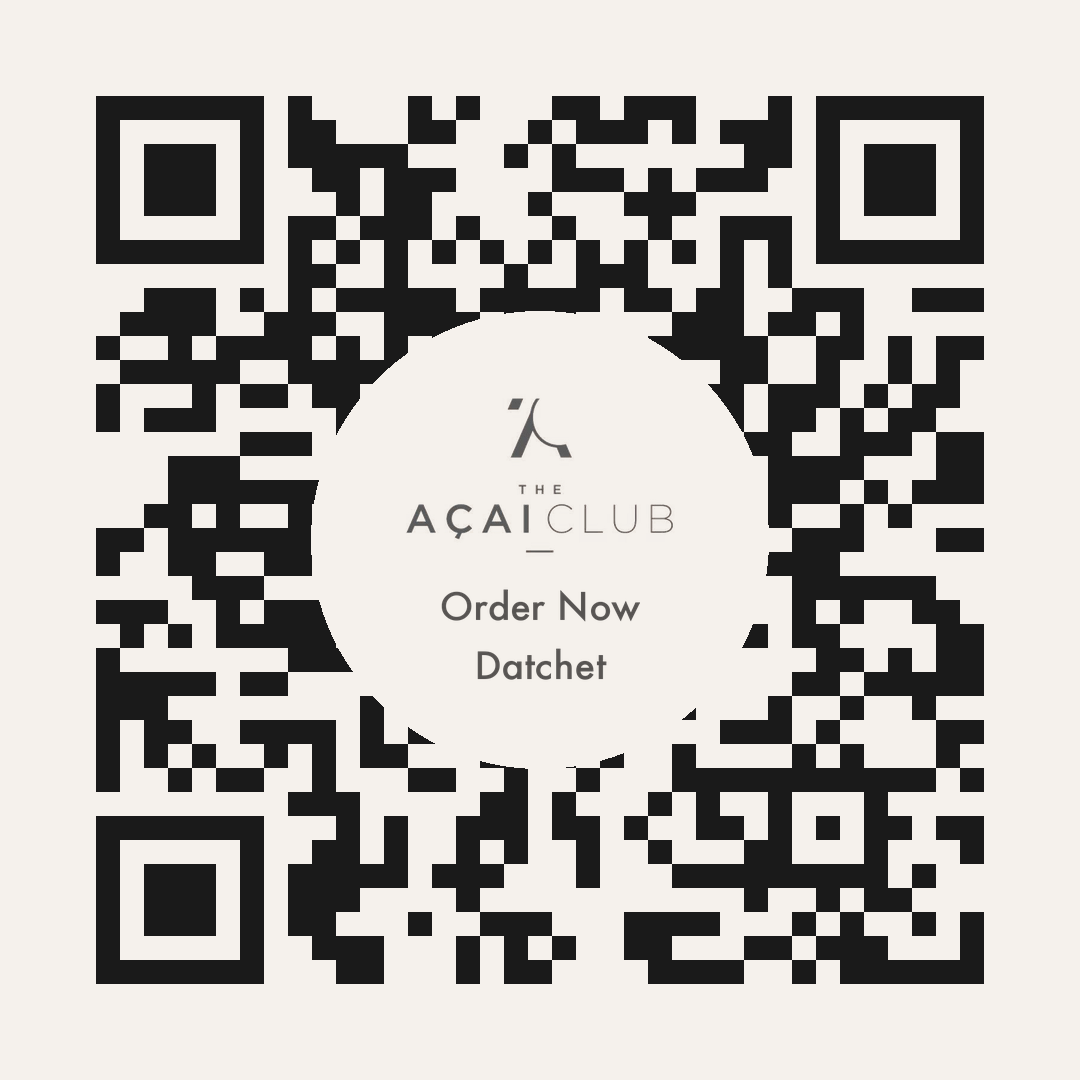
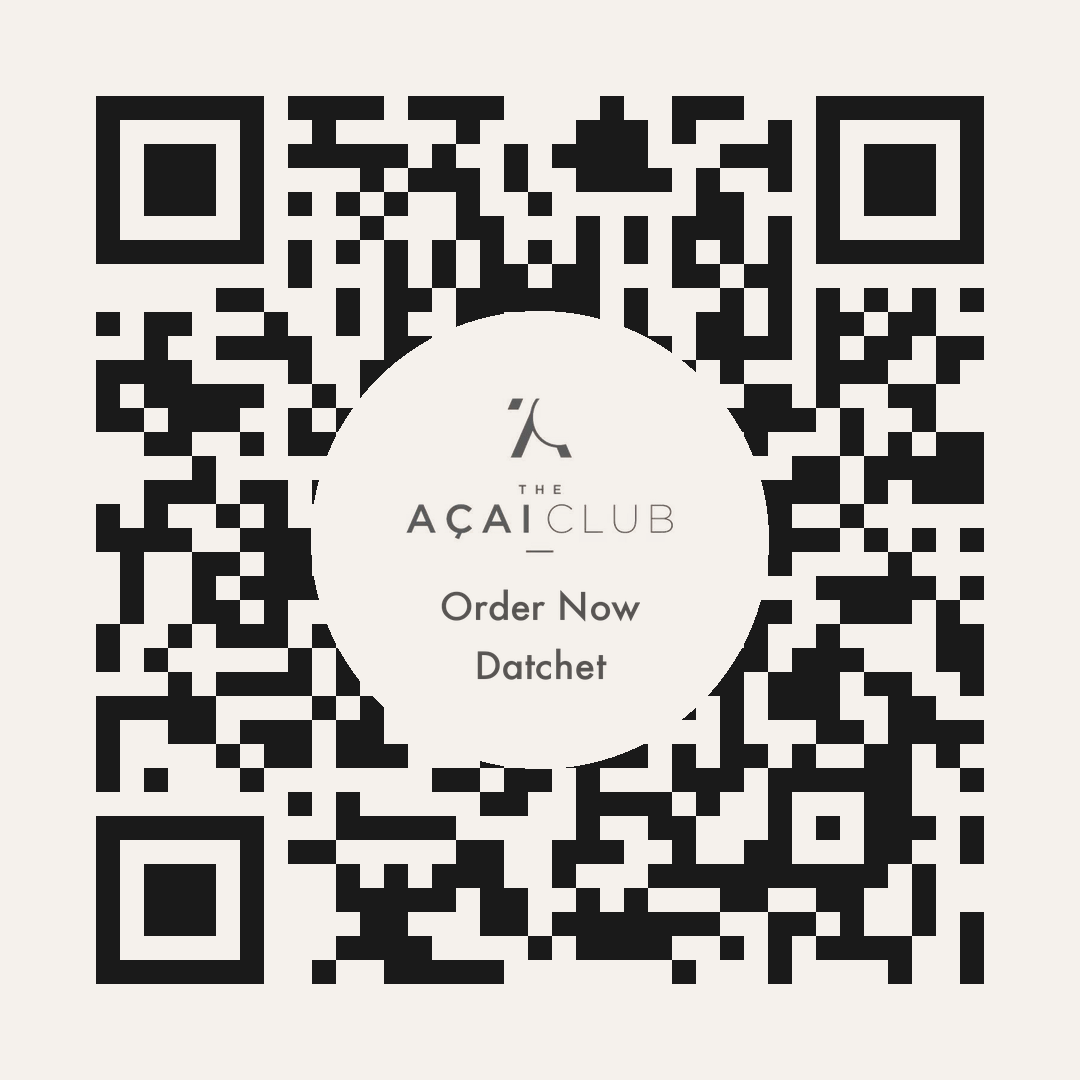
QR: route all app-bound codes through stable /qr/<slug> redirect layer (Cloudflare _redirects)
Printed codes now encode /qr/<slug>; destinations resolved server-side so they can
be repointed without reprinting. 302s, with a /qr/* fallback to /get.

Changed region(s): [[0.0917, 0.0917, 0.9167, 0.9167]]

diff --git a/qr/generate-all.py b/qr/generate-all.py
@@ -13,28 +13,31 @@ os.makedirs(OUT, exist_ok=True)
 spec = importlib.util.spec_from_file_location("mq", os.path.join(HERE, "make-qr.py"))
 mq = importlib.util.module_from_spec(spec); spec.loader.exec_module(mq)
 
-GET = "https://theacaiclub.com/get"
+# Printed codes encode a STABLE /qr/<slug> handle; the destination is resolved by
+# web/public/_redirects at scan time, so any code can be repointed later WITHOUT
+# reprinting. Keep the slugs here in sync with _redirects. (Instagram stays a
+# direct link — it's not an app-bound code we'd ever repoint.)
+QR = "https://theacaiclub.com/qr"
 IG = "https://www.instagram.com/channel/AbY12BpE6JQD6QOB/"
 
 # name, url, two-line label.
-# Deep-link intent is carried in a single ?target= param (run-club / store slug),
-# read by /get today (download) and by the app's deep-link handler later.
 SET = [
-    ("app-download",        GET,                          ["Download", "the App"]),
-    ("runclub-instagram",   IG,                           ["Run Club", "Community"]),
-    ("app-runclub",         GET + "?target=run-club",     ["Run Club", "in the App"]),
-    ("order-beaconsfield",  GET + "?target=beaconsfield", ["Order Now", "Beaconsfield"]),
-    ("order-reading",       GET + "?target=reading",      ["Order Now", "Reading"]),
-    ("order-datchet",       GET + "?target=datchet",      ["Order Now", "Datchet"]),
+    ("app-download",        QR + "/app",          ["Download", "the App"]),
+    ("runclub-instagram",   IG,                   ["Run Club", "Community"]),
+    ("app-runclub",         QR + "/run-club",     ["Run Club", "in the App"]),
+    ("order-beaconsfield",  QR + "/beaconsfield", ["Order Now", "Beaconsfield"]),
+    ("order-reading",       QR + "/reading",      ["Order Now", "Reading"]),
+    ("order-datchet",       QR + "/datchet",      ["Order Now", "Datchet"]),
 ]
 
 # Stand / menu posters: logo-only QR with the caption BELOW the code (taller image).
 # dark=True -> light QR/logo/text on near-black, for printing on black acrylic.
+# Both Datchet stand faces (and dark variants) resolve to the same /qr/datchet.
 STANDS = [
-    ("menu-datchet",               GET + "?target=datchet", ["ORDER NOW"],     False),
-    ("menu-flipside-datchet",      GET + "?target=datchet", ["JOIN THE CLUB"], False),
-    ("menu-datchet-dark",          GET + "?target=datchet", ["ORDER NOW"],     True),
-    ("menu-flipside-datchet-dark", GET + "?target=datchet", ["JOIN THE CLUB"], True),
+    ("menu-datchet",               QR + "/datchet", ["ORDER NOW"],     False),
+    ("menu-flipside-datchet",      QR + "/datchet", ["JOIN THE CLUB"], False),
+    ("menu-datchet-dark",          QR + "/datchet", ["ORDER NOW"],     True),
+    ("menu-flipside-datchet-dark", QR + "/datchet", ["JOIN THE CLUB"], True),
 ]
 
 if __name__ == "__main__":
